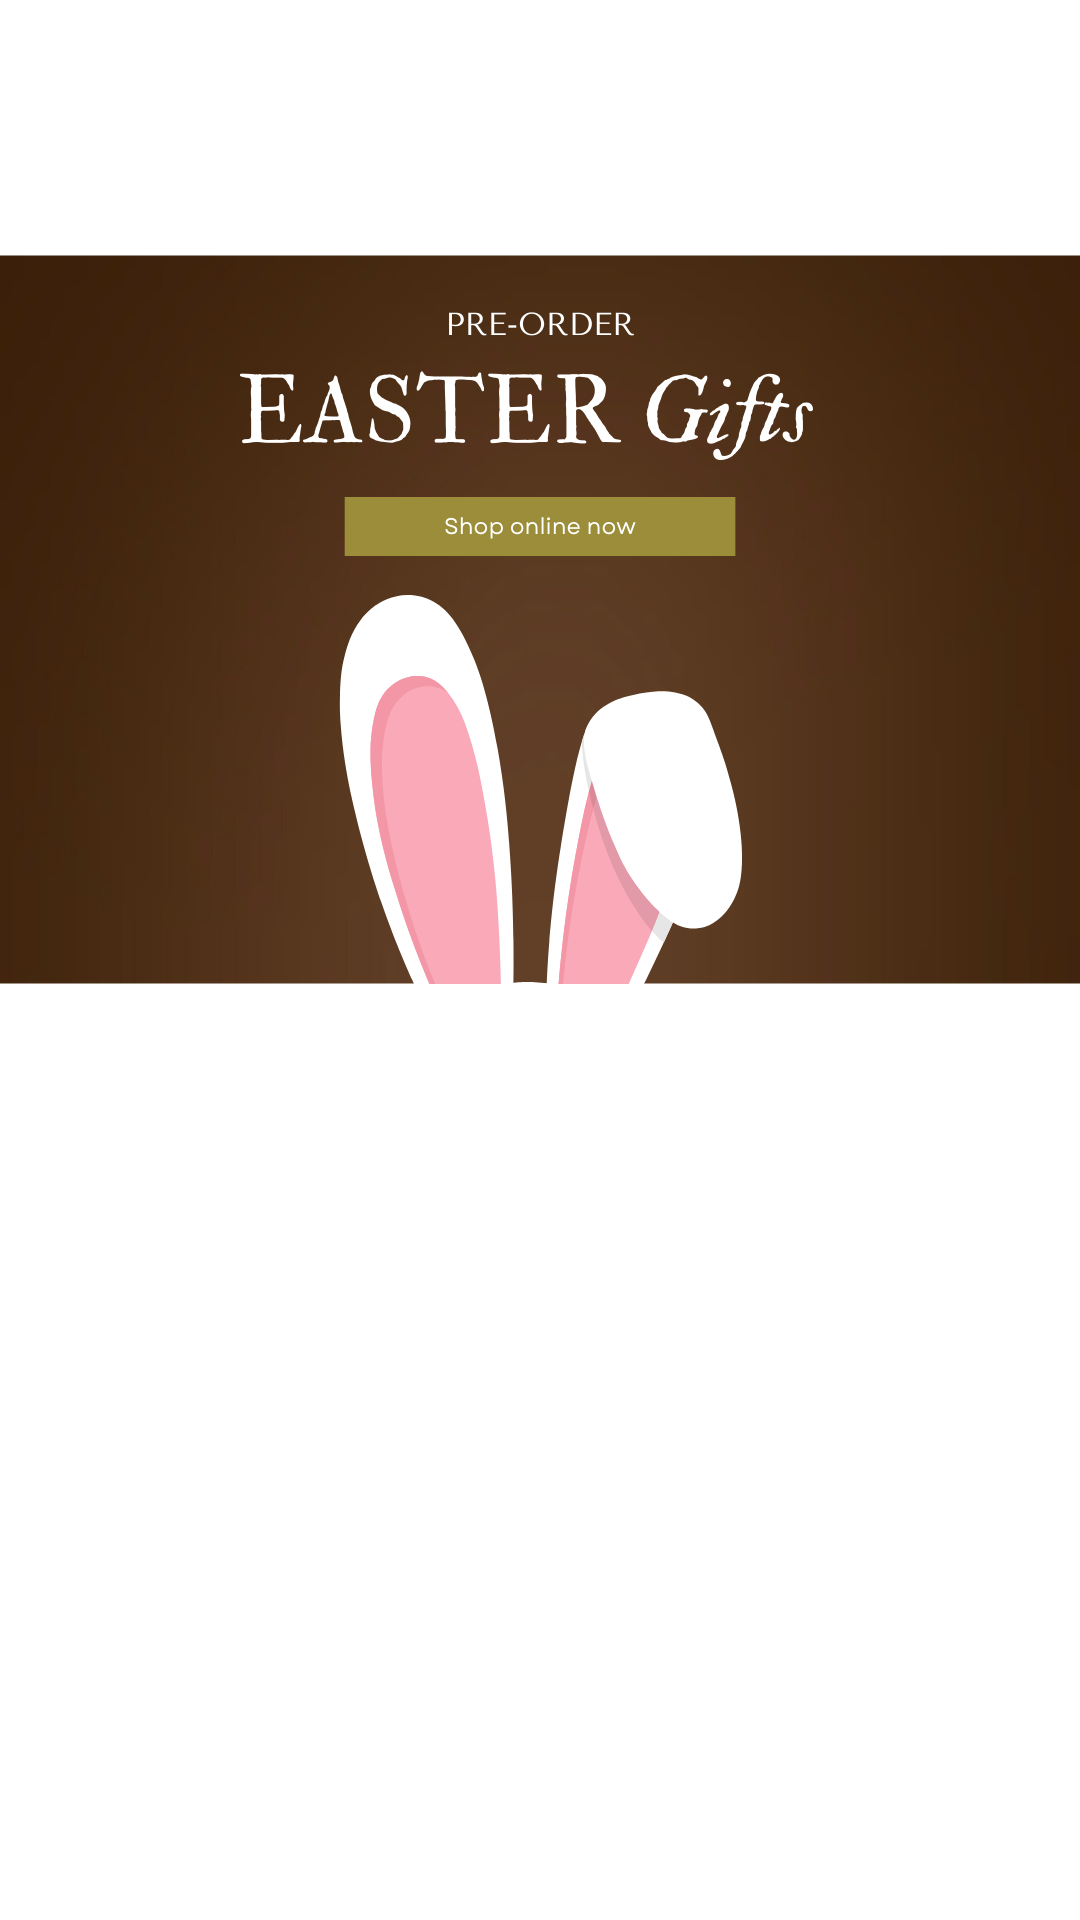
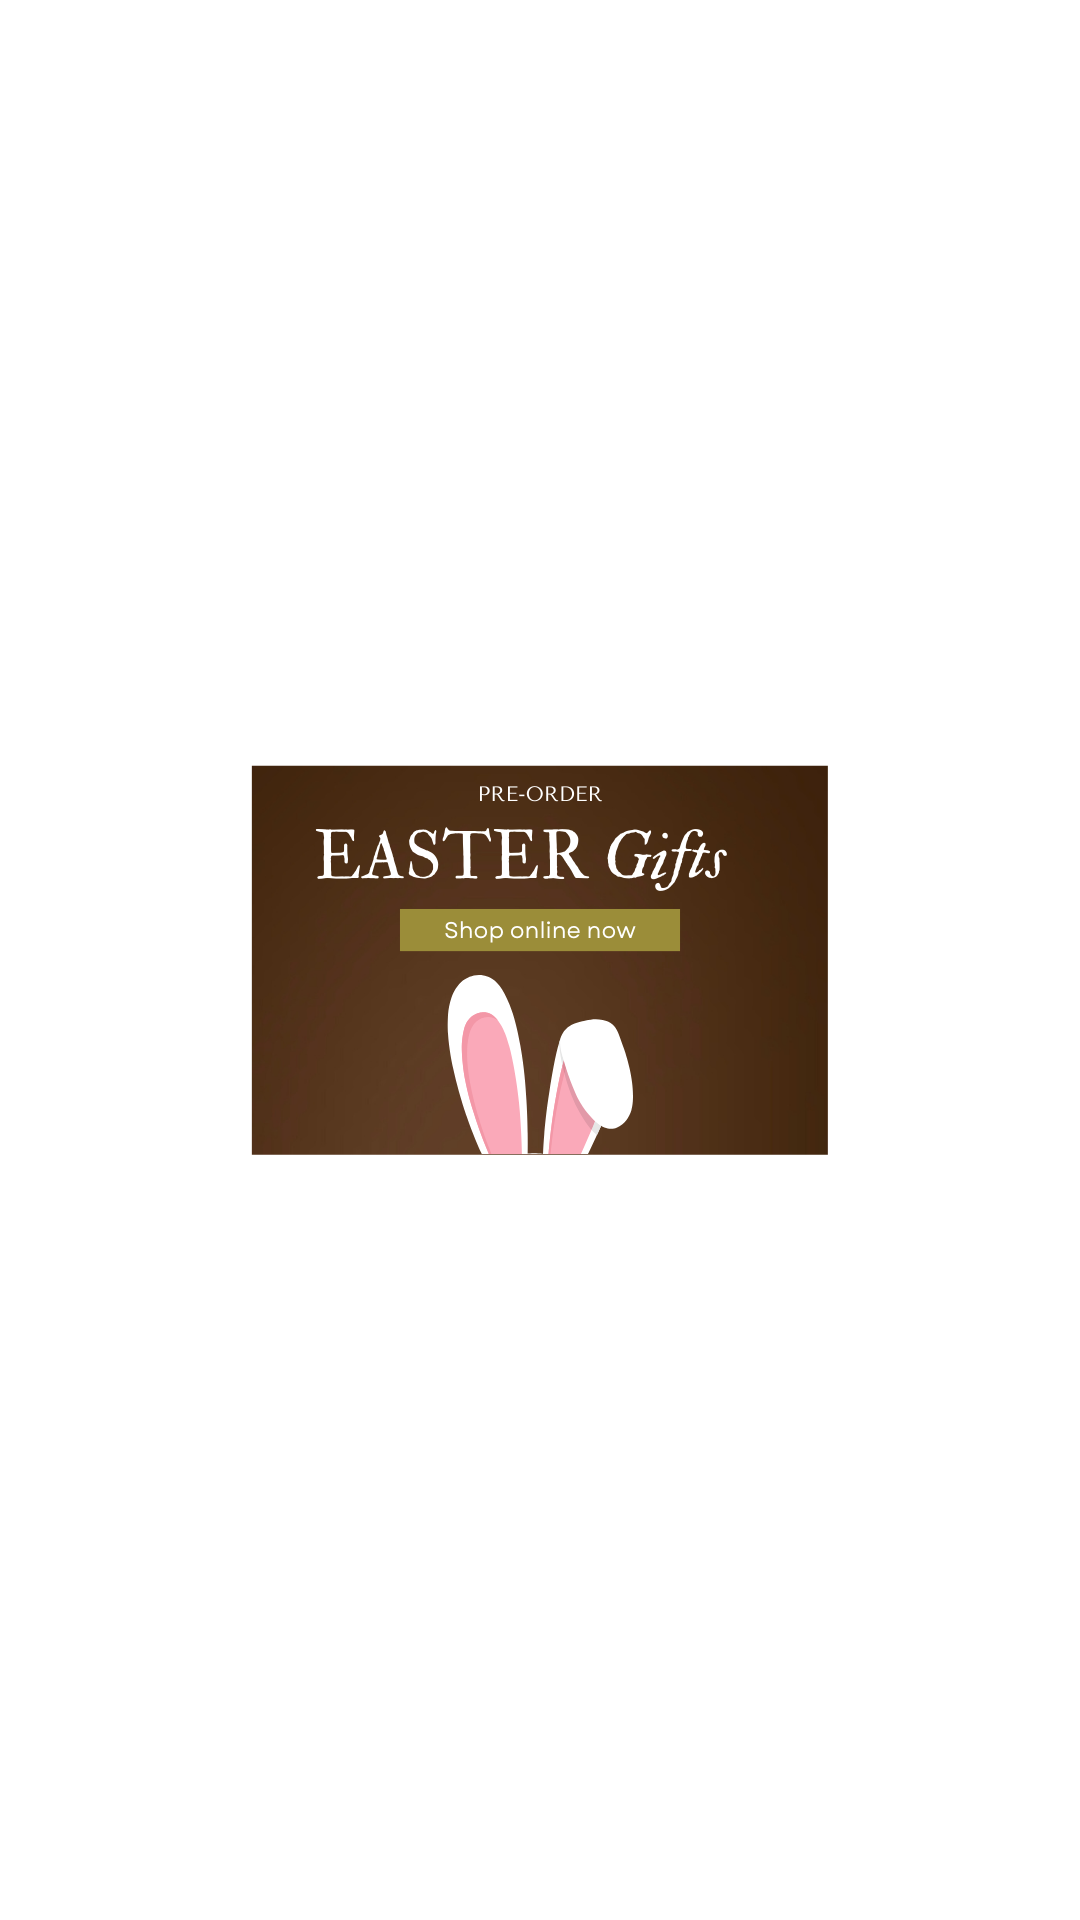
new changes in the application

diff --git a/src/components/Home/Banner/Banner.scss b/src/components/Home/Banner/Banner.scss
@@ -2,7 +2,7 @@
 .hero-banner {
     padding: 40px 0;
     position: relative;
-    background: #FAA1C8 url('../../../assets/Banner_Mobile.png');
+    background: #FAA1C8 url('../../../assets/banner_m.png');
     background-position: center;
     background-repeat: no-repeat;
     background-size: cover;
